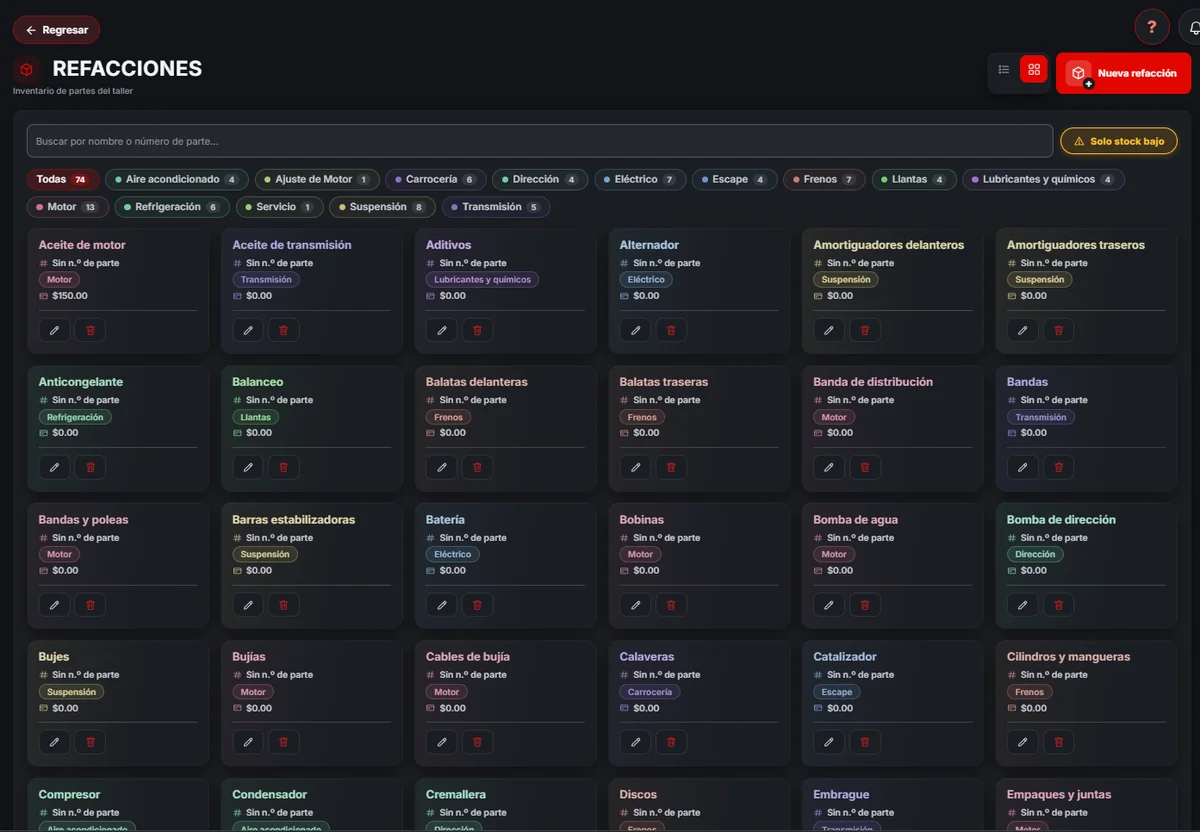
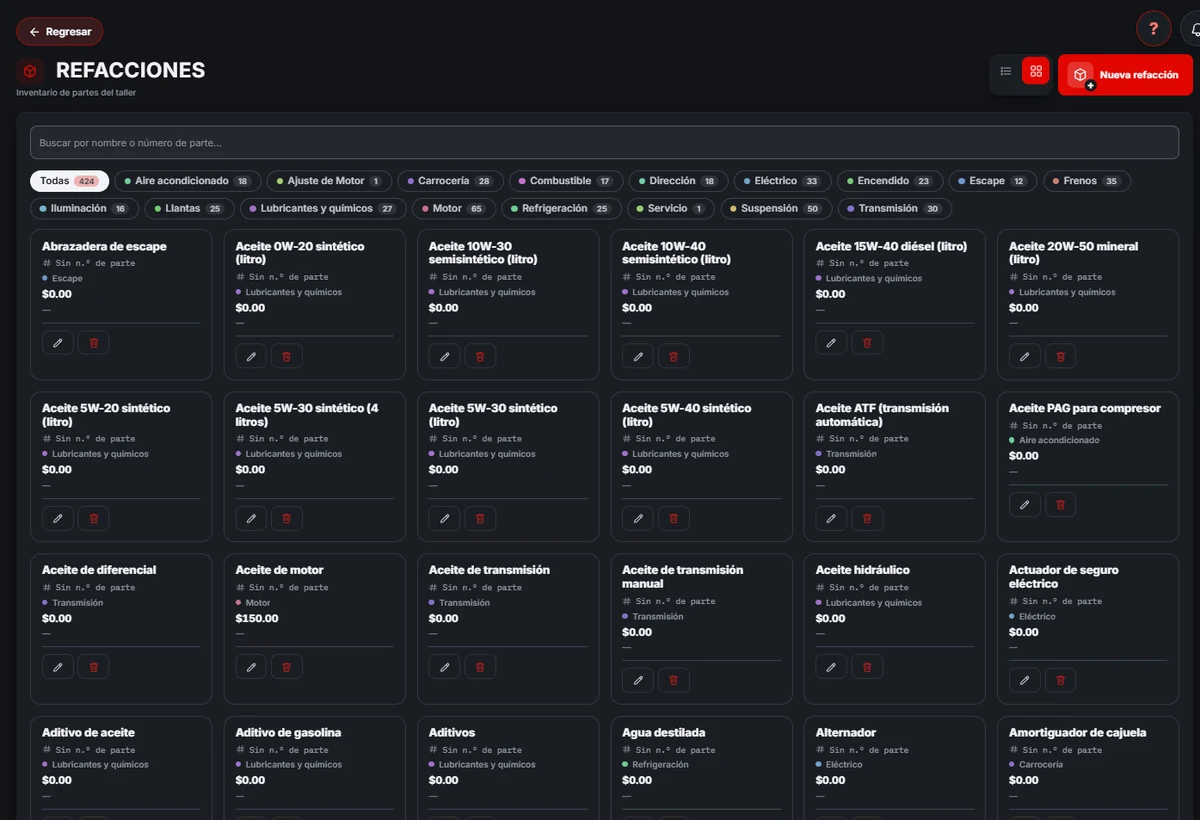
sitio: capturas ficticias y refacciones; inventario: filtros sin duplicar; qa mobile

diff --git a/web-admin/src/pages/Inventario.jsx b/web-admin/src/pages/Inventario.jsx
@@ -396,21 +396,6 @@ export default function Inventario() {
           </select>
           {(fMarca || fModelo || fRefaccion) && <button type="button" className="btn btn-secondary" onClick={() => { setFMarca(""); setFModelo(""); setFRefaccion(""); }}>Limpiar filtros</button>}
         </div>
-        <div style={{ display: "flex", gap: 10, marginBottom: 14, flexWrap: "wrap" }}>
-          <select style={{ flex: 1, minWidth: 160 }} value={fMarca} onChange={(e) => { setFMarca(e.target.value); setFModelo(""); }}>
-            <option value="">Todas las marcas</option>
-            {marcasVehiculo.map((m) => <option key={m.id_marca_vehiculo} value={m.id_marca_vehiculo}>{m.nombre_marca}</option>)}
-          </select>
-          <select style={{ flex: 1, minWidth: 160 }} value={fModelo} disabled={!fMarca} onChange={(e) => setFModelo(e.target.value)}>
-            <option value="">Todos los modelos</option>
-            {modelosVehiculo.filter((mo) => String(mo.id_marca_vehiculo) === fMarca).map((mo) => <option key={mo.id_modelo_vehiculo} value={mo.id_modelo_vehiculo}>{mo.nombre_modelo}</option>)}
-          </select>
-          <select style={{ flex: 1, minWidth: 160 }} value={fRefaccion} onChange={(e) => setFRefaccion(e.target.value)}>
-            <option value="">Todas las refacciones</option>
-            {refacciones.slice().sort((a, b) => a.nombre_refaccion.localeCompare(b.nombre_refaccion)).map((x) => <option key={x.id_refaccion} value={x.id_refaccion}>{x.nombre_refaccion}</option>)}
-          </select>
-          {(fMarca || fModelo || fRefaccion) && <button type="button" className="btn btn-secondary" onClick={() => { setFMarca(""); setFModelo(""); setFRefaccion(""); }}>Limpiar filtros</button>}
-        </div>
         <FiltroChips items={contarPor(filas, (r) => r.refaccion?.categoria || "Sin categoría")} valor={filtroCategoria} onChange={setFiltroCategoria} total={filas.length} />
         {loading ? (
           <div className="loading-text">Cargando…</div>

diff --git a/sitio-web/index.html b/sitio-web/index.html
@@ -1123,7 +1123,7 @@
             <span class="mockup-dot" style="background:#34d39999"></span>
             <span class="mockup-url">app.aldmautocore.com</span>
           </div>
-          <img src="capturas/refacciones-v2-1200.webp" srcset="capturas/refacciones-v2-1200.webp 1200w, capturas/refacciones-v2.webp 1393w" sizes="(min-width: 1240px) 1180px, 96vw" width="1393" height="966" alt="Catálogo de refacciones por categoría con stock y precio" loading="lazy" decoding="async" />
+          <img src="capturas/refacciones-v2-1200.webp" srcset="capturas/refacciones-v2-1200.webp 1200w, capturas/refacciones-v2.webp 1395w" sizes="(min-width: 1240px) 1180px, 96vw" width="1395" height="953" alt="Catálogo de refacciones por categoría con stock y precio" loading="lazy" decoding="async" />
         </figure>
         <figcaption><b>Catálogo de refacciones</b> Por categoría, con stock y precio al cliente.</figcaption>
         </div>
